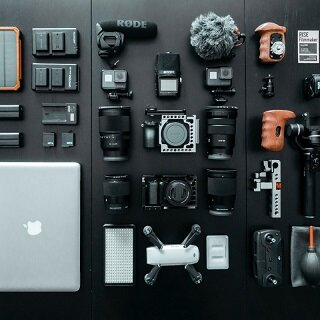
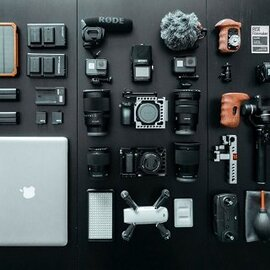
maj px photos

diff --git a/index.html b/index.html
@@ -178,7 +178,7 @@
 		</div>
 		<div class="row tight-width-whitespace portfolio-row">
 			<div class="col-sm-6">
-				<a href="#" data-lightbox="img/3.jpg" data-gallery-id="gallery-1" data-caption="Création d'un site internet pour un voyageur" data-frame="snapshot-lb"><img src="img/3.bmp" class="img-responsive portfolio-thumb" alt=" Création d'un site web pour voyageur"/></a>
+				<a href="#" data-lightbox="img/3.jpg" data-gallery-id="gallery-1" data-caption="Création d'un site internet pour un voyageur" data-frame="snapshot-lb"><img src="img/3.jpg" class="img-responsive portfolio-thumb" alt=" Création d'un site web pour voyageur"/></a>
 				<h3 class="mg-md text-center">
 					Création d'un site internet pour un voyageur
 				</h3>
@@ -187,7 +187,7 @@
 				</p>
 			</div>
 			<div class="col-sm-6">
-				<a href="#" data-lightbox="img/4.jpg" data-gallery-id="gallery-1" data-caption="Conception d'un site pour une agence de mariage" data-frame="snapshot-lb"><img src="img/4.bmp" class="img-responsive portfolio-thumb" alt="Création d'un site web pour agence de mariage" /></a>
+				<a href="#" data-lightbox="img/4.jpg" data-gallery-id="gallery-1" data-caption="Conception d'un site pour une agence de mariage" data-frame="snapshot-lb"><img src="img/4.jpg" class="img-responsive portfolio-thumb" alt="Création d'un site web pour agence de mariage" /></a>
 				<h3 class="mg-md text-center">
 					Conception d'un site pour une agence de mariage
 				</h3>
@@ -203,7 +203,7 @@
 <!-- bloc-5-cta -->
 <div class="bloc bgc-dark-slate-blue bg-banniere d-bloc bloc-bg-texture texture-paper" id="bloc-5-cta">
 	<div class="container bloc-lg">
-		<div class="row">
+		<div class="row_footer">
 			<h2 class="mg-md text-center tc-white">
 				Prêt pour redonner vie à votre projet ?<br>Contactez notre équipe !
 			</h2>

diff --git a/style.css b/style.css
@@ -39,7 +39,12 @@ a:hover {
     position: relative;
 }
 
+.row_footer{
+    background-color: blanchedalmond;
+}
+
 .bloc .container {
+
     padding-left: 0;
     padding-right: 0;
 }
@@ -879,6 +884,8 @@ h4 {
         padding-left: constant(safe-area-inset-left);
         padding-right: constant(safe-area-inset-right);
     }
+
+    
     .bloc-group,
     .bloc-group .bloc {
         display: block;
